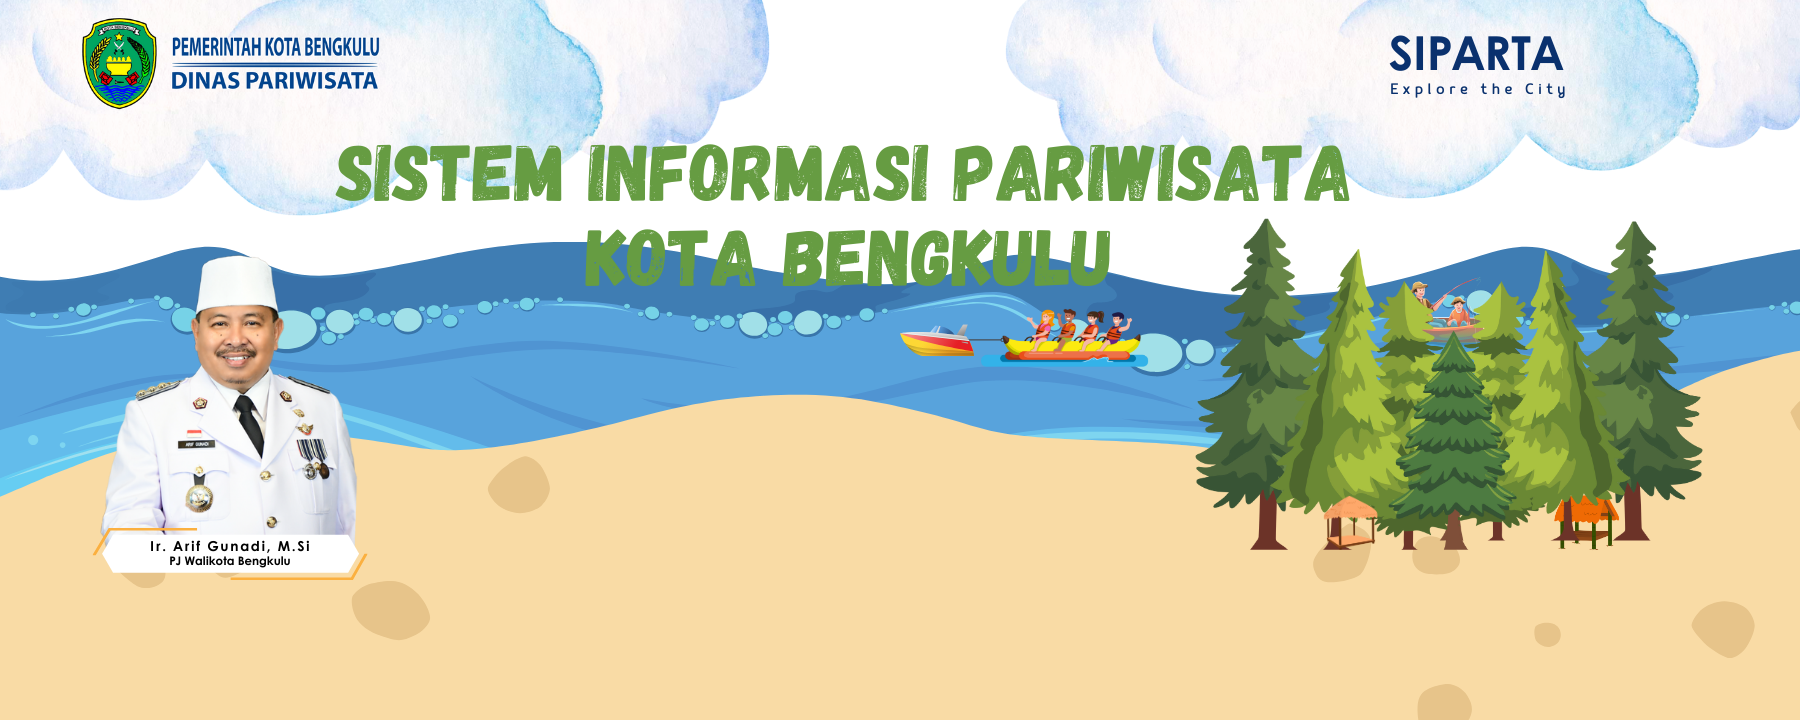
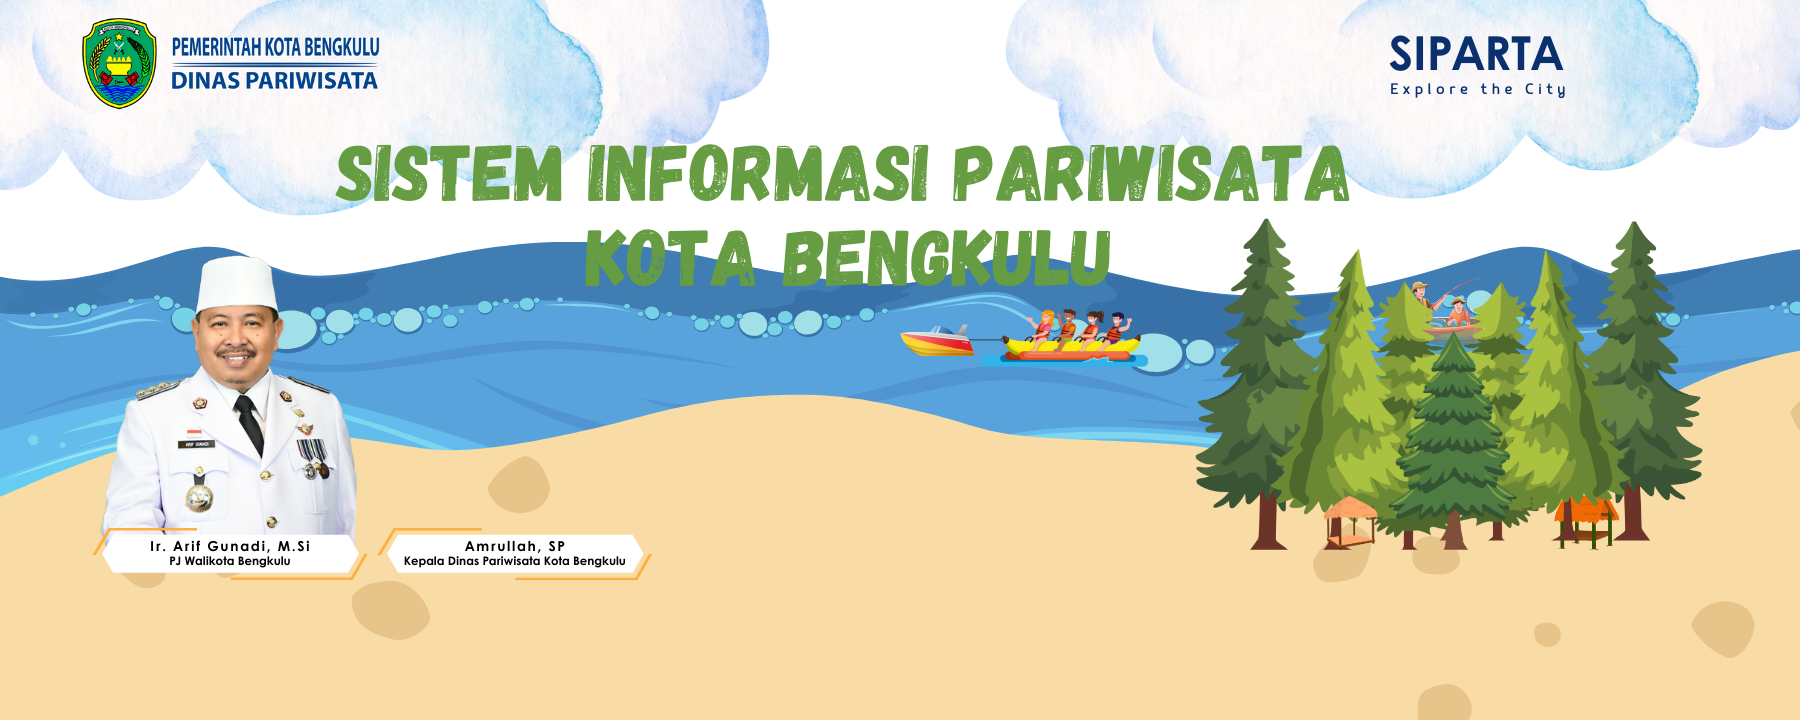
Edit Content

Changed region(s): [[0.2178, 0.7333, 0.3733, 0.825]]

diff --git a/resources/views/pages/frontend/about.blade.php b/resources/views/pages/frontend/about.blade.php
@@ -14,13 +14,13 @@
                 <div class="col-xl-6">
                     <div class="img-box3">
                         <div class="img1">
-                            <img src="{{ url('frontend/assets/img/normal/about_3_1.jpg') }}" alt="About">
+                            <img src="{{ url('frontend/assets/img/normal/about6.jpeg') }}" alt="About">
                         </div>
                         <div class="img2">
-                            <img src="{{ url('frontend/assets/img/normal/about_3_2.jpg') }}" alt="About">
+                            <img src="{{ url('frontend/assets/img/normal/about4.jpeg') }}" alt="About">
                         </div>
                         <div class="img3 movingX">
-                            <img src="{{ url('frontend/assets/img/normal/about_3_3.jpg') }}" alt="About">
+                            <img src="{{ url('frontend/assets/img/normal/about2.jpeg') }}" alt="About">
                         </div>
                     </div>
                 </div>
@@ -110,15 +110,15 @@
                         <div class="swiper-slide">
                             <div class="th-team team-grid">
                                 <div class="team-img">
-                                    <img src="{{ url('frontend/assets/img/team/team_img_1.jpg') }}" alt="Team">
+                                    <img src="{{ url('frontend/assets/img/team/pantai_malabero.jpeg') }}" alt="Team">
                                 </div>
                                 <div class="team-img2">
                                     <img src="{{ url('frontend/assets/img/team/team_1_1.jpg') }}" alt="Team">
                                 </div>
                                 <div class="team-content">
                                     <div class="media-body">
-                                        <h3 class="box-title"><a href="tour-guider-details.html">Michel Smith</a></h3>
-                                        <span class="team-desig">Tourist Guide</span>
+                                        <h3 class="box-title">Amrullah, SP</h3>
+                                        <span class="team-desig">Kepala Dinas</span>
                                     </div>
                                 </div>
                             </div>
@@ -128,15 +128,15 @@
                         <div class="swiper-slide">
                             <div class="th-team team-grid">
                                 <div class="team-img">
-                                    <img src="{{ url('frontend/assets/img/team/team_img_2.jpg') }}" alt="Team">
+                                    <img src="{{ url('frontend/assets/img/team/pantai_malabero.jpeg') }}" alt="Team">
                                 </div>
                                 <div class="team-img2">
                                     <img src="{{ url('frontend/assets/img/team/team_1_2.jpg') }}" alt="Team">
                                 </div>
                                 <div class="team-content">
                                     <div class="media-body">
-                                        <h3 class="box-title"><a href="tour-guider-details.html">Michel Smith</a></h3>
-                                        <span class="team-desig">Tourist Guide</span>
+                                        <h3 class="box-title">Nina Nurdin, S.Sos., M.Si</h3>
+                                        <span class="team-desig">Sekretaris</span>
                                     </div>
                                 </div>
                             </div>
@@ -146,14 +146,14 @@
                         <div class="swiper-slide">
                             <div class="th-team team-grid">
                                 <div class="team-img">
-                                    <img src="{{ url('frontend/assets/img/team/team_img_3.jpg') }}" alt="Team">
+                                    <img src="{{ url('frontend/assets/img/team/pantai_malabero.jpeg') }}" alt="Team">
                                 </div>
                                 <div class="team-img2">
                                     <img src="{{ url('frontend/assets/img/team/team_1_3.jpg') }}" alt="Team">
                                 </div>
                                 <div class="team-content">
                                     <div class="media-body">
-                                        <h3 class="box-title"><a href="tour-guider-details.html">Michel Smith</a></h3>
+                                        <h3 class="box-title">Michel Smith</h3>
                                         <span class="team-desig">Tourist Guide</span>
                                     </div>
                                 </div>
@@ -164,14 +164,14 @@
                         <div class="swiper-slide">
                             <div class="th-team team-grid">
                                 <div class="team-img">
-                                    <img src="{{ url('frontend/assets/img/team/team_img_1.jpg') }}" alt="Team">
+                                    <img src="{{ url('frontend/assets/img/team/pantai_malabero.jpeg') }}" alt="Team">
                                 </div>
                                 <div class="team-img2">
                                     <img src="{{ url('frontend/assets/img/team/team_1_4.jpg') }}" alt="Team">
                                 </div>
                                 <div class="team-content">
                                     <div class="media-body">
-                                        <h3 class="box-title"><a href="tour-guider-details.html">Michel Smith</a></h3>
+                                        <h3 class="box-title">Michel Smith</h3>
                                         <span class="team-desig">Tourist Guide</span>
                                     </div>
                                 </div>
@@ -182,14 +182,14 @@
                         <div class="swiper-slide">
                             <div class="th-team team-grid">
                                 <div class="team-img">
-                                    <img src="{{ url('frontend/assets/img/team/team_img_2.jpg') }}" alt="Team">
+                                    <img src="{{ url('frontend/assets/img/team/pantai_malabero.jpeg') }}" alt="Team">
                                 </div>
                                 <div class="team-img2">
                                     <img src="{{ url('frontend/assets/img/team/team_1_5.jpg') }}" alt="Team">
                                 </div>
                                 <div class="team-content">
                                     <div class="media-body">
-                                        <h3 class="box-title"><a href="tour-guider-details.html">Michel Smith</a></h3>
+                                        <h3 class="box-title">Michel Smith</h3>
                                         <span class="team-desig">Tourist Guide</span>
                                     </div>
                                 </div>

diff --git a/resources/views/pages/frontend/home.blade.php b/resources/views/pages/frontend/home.blade.php
@@ -38,6 +38,30 @@
                         </div>
                     </div>
                 </div>
+                <div class="swiper-slide d-none d-md-block">
+                    <div class="hero-inner">
+                        <div class="th-hero-bg" data-bg-src="{{ url('frontend/assets/img/hero/3.png') }}">
+                        </div>
+                        <div class="container">
+                            <div class="hero-style1">
+                                <span class="sub-title style1" data-ani="slideinup" data-ani-delay="0.2s">&nbsp;</span>
+                                <h1 class="hero-title" data-ani="slideinup" data-ani-delay="0.4s">&nbsp;</h1>
+                            </div>
+                        </div>
+                    </div>
+                </div>
+                <div class="swiper-slide d-none d-md-block">
+                    <div class="hero-inner">
+                        <div class="th-hero-bg" data-bg-src="{{ url('frontend/assets/img/hero/4.png') }}">
+                        </div>
+                        <div class="container">
+                            <div class="hero-style1">
+                                <span class="sub-title style1" data-ani="slideinup" data-ani-delay="0.2s">&nbsp;</span>
+                                <h1 class="hero-title" data-ani="slideinup" data-ani-delay="0.4s">&nbsp;</h1>
+                            </div>
+                        </div>
+                    </div>
+                </div>
                 <div class="swiper-slide d-md-none d-sm-block">
                     <div class="hero-inner">
                         <div class="th-hero-bg" data-bg-src="{{ url('frontend/assets/img/hero/mobile_1.png') }}">
@@ -64,14 +88,40 @@
                         </div>
                     </div>
                 </div>
+                <div class="swiper-slide d-md-none d-sm-block">
+                    <div class="hero-inner">
+                        <div class="th-hero-bg" data-bg-src="{{ url('frontend/assets/img/hero/mobile_3.png') }}">
+                        </div>
+                        <div class="container">
+                            <div class="hero-style1">
+                                <span class="sub-title style1" data-ani="slideinup" data-ani-delay="0.2s">&nbsp;</span>
+                                <h1 class="hero-title" data-ani="slideinup" data-ani-delay="0.4s">
+                                    &nbsp; </h1>
+                            </div>
+                        </div>
+                    </div>
+                </div>
+                <div class="swiper-slide d-md-none d-sm-block">
+                    <div class="hero-inner">
+                        <div class="th-hero-bg" data-bg-src="{{ url('frontend/assets/img/hero/mobile_4.png') }}">
+                        </div>
+                        <div class="container">
+                            <div class="hero-style1">
+                                <span class="sub-title style1" data-ani="slideinup" data-ani-delay="0.2s">&nbsp;</span>
+                                <h1 class="hero-title" data-ani="slideinup" data-ani-delay="0.4s">
+                                    &nbsp; </h1>
+                            </div>
+                        </div>
+                    </div>
+                </div>
             </div>
-            <div class="th-swiper-custom">
+            {{--  <div class="th-swiper-custom">
                 <button data-slider-prev="#heroSlide1" class="slider-arrow slider-prev"><img
                         src="{{ url('frontend/assets/img/icon/right-arrow.svg') }}" alt=""></button>
                 <div class="slider-pagination"></div>
                 <button data-slider-next="#heroSlide1" class="slider-arrow slider-next"><img
                         src="{{ url('frontend/assets/img/icon/left-arrow.svg') }}" alt=""></button>
-            </div>
+            </div>  --}}
 
         </div>
     </div>
@@ -446,13 +496,13 @@
                 <div class="col-xl-6">
                     <div class="img-box1">
                         <div class="img1">
-                            <img src="{{ url('frontend/assets/img/normal/about_1_1.jpg') }}" alt="About">
+                            <img src="{{ url('frontend/assets/img/normal/about5.jpeg') }}" alt="About">
                         </div>
                         <div class="img2">
-                            <img src="{{ url('frontend/assets/img/normal/about_1_2.jpg') }}" alt="About">
+                            <img src="{{ url('frontend/assets/img/normal/about3.jpeg') }}" alt="About">
                         </div>
                         <div class="img3">
-                            <img src="{{ url('frontend/assets/img/normal/about_1_3.jpg') }}" alt="About">
+                            <img src="{{ url('frontend/assets/img/normal/about1.jpeg') }}" alt="About">
                         </div>
                     </div>
                 </div>
